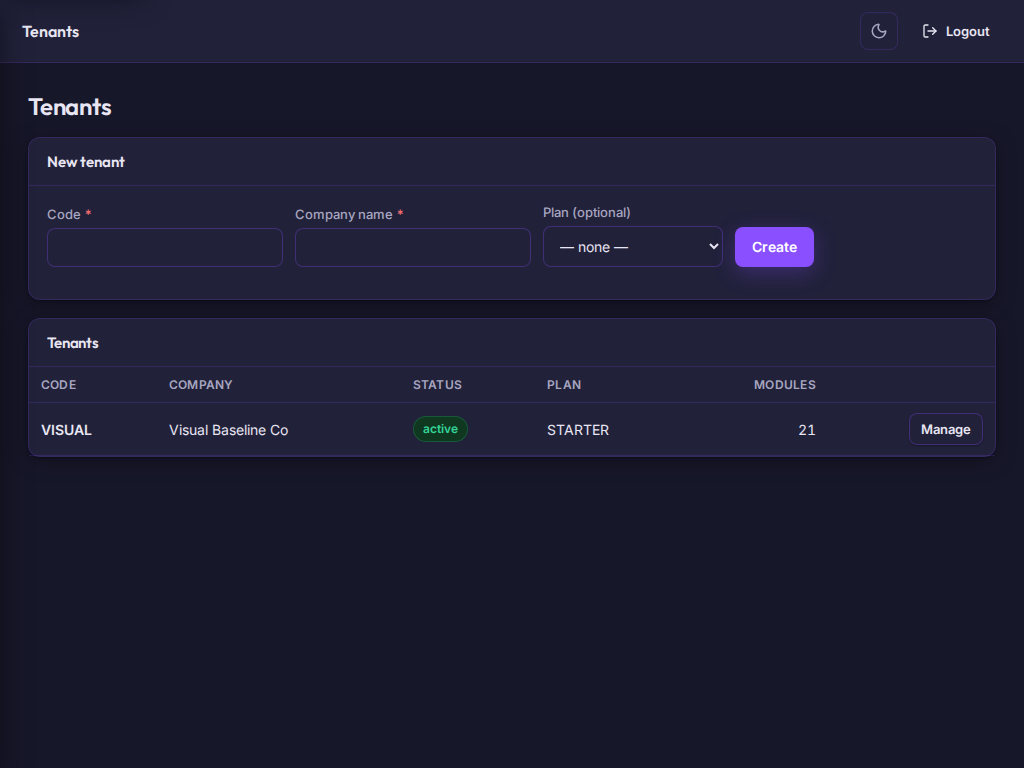
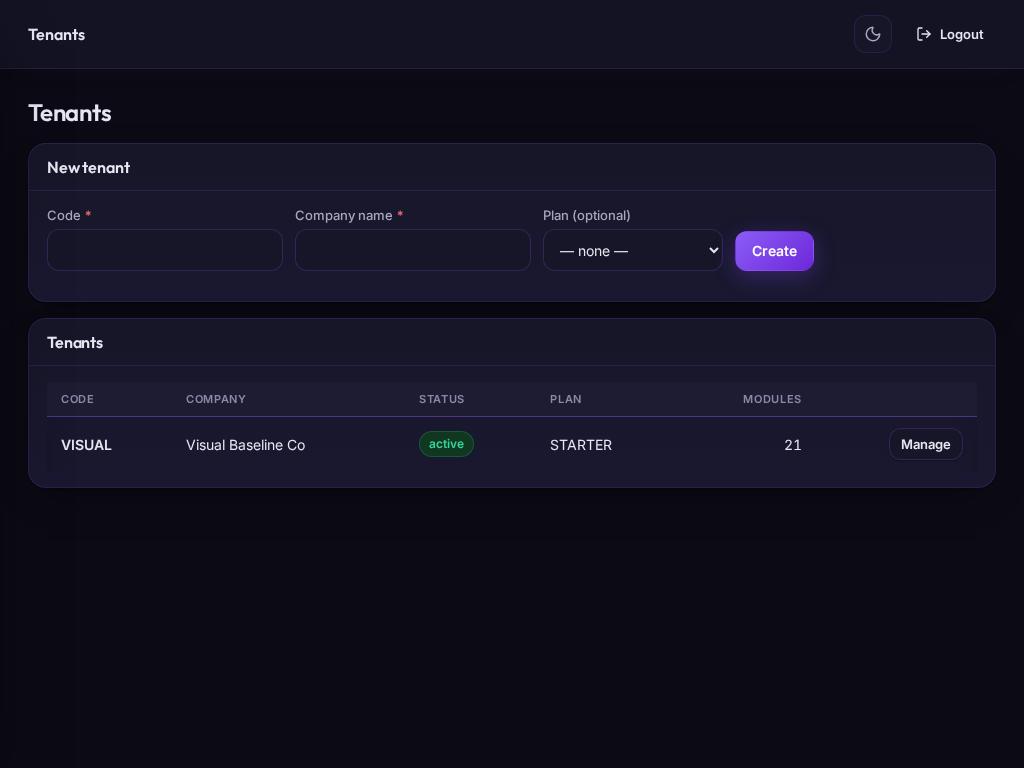
feat(web,v2): two-column layout on the admin Tenants page
Extend the CRUD two-column treatment (form panel beside the list on wide
screens, stacked ≤1120px) to the super-admin Tenants page, reusing the existing
.mn-crud grid. Presentation only, V2-gated. Refresh the admin-tenants evidence
captures. (Plans keeps its full-width form — its ~20-module picker reads better
across the full width than in a narrow aside.)

Claude-Session: https://claude.ai/code/session_01BcuFHf7eRzDGkTBPGdJVKG

diff --git a/apps/web/src/app/admin/tenants/page.tsx b/apps/web/src/app/admin/tenants/page.tsx
@@ -46,7 +46,8 @@ export default function TenantsPage() {
     <div>
       <h1 style={{ fontSize: 24, marginTop: 0, marginBottom: 16 }}>Tenants</h1>
 
-      <div style={{ marginBottom: 18 }}>
+      <div className="mn-crud">
+        <div className="mn-crud-aside">
         <Card title="New tenant">
           <Form onSubmit={create} style={{ display: 'flex', gap: 12, flexWrap: 'wrap', alignItems: 'end' }}>
             <div style={{ minWidth: 140 }}>
@@ -75,8 +76,8 @@ export default function TenantsPage() {
           </Form>
           {error && <div style={{ marginTop: 4 }}><ErrorState message={error} /></div>}
         </Card>
-      </div>
-
+        </div>
+        <div className="mn-crud-main">
       <Card title="Tenants" padded={false}>
         {tenants.length ? (
           <Table>
@@ -111,6 +112,8 @@ export default function TenantsPage() {
           <EmptyState title="No tenants yet" description="Create your first tenant above." />
         )}
       </Card>
+        </div>
+      </div>
     </div>
   );
 }
